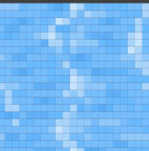
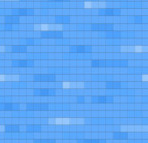
feat: Add and finish map

diff --git a/src/main/java/fr/ab3d0/tile/TileManager.java b/src/main/java/fr/ab3d0/tile/TileManager.java
@@ -4,19 +4,26 @@ import fr.ab3d0.Jeu2D.GamePanel;
 
 import javax.imageio.ImageIO;
 import java.awt.*;
+import java.awt.image.BufferedImage;
+import java.io.BufferedReader;
 import java.io.IOException;
+import java.io.InputStream;
+import java.io.InputStreamReader;
 
 public class TileManager {
     GamePanel gp;
     Tile[] tile;
+    int mapTileNum[][];
 
 
     public TileManager(GamePanel gp){
         this.gp = gp;
         tile = new Tile[10];
-        getTileImage();
-    }
+        mapTileNum = new int[gp.maxScreenCol][gp.maxScreenRow];
 
+        getTileImage();
+        loadMap();
+    }
     public void getTileImage(){
         try{
             tile[0] = new Tile();
@@ -38,13 +45,61 @@ public class TileManager {
             e.printStackTrace();
         }
     }
+    public void loadMap(){
+        try{
+            InputStream in = getClass().getResourceAsStream("/maps/map.txt");
+            System.out.println(in);
+            BufferedReader br = new BufferedReader(new InputStreamReader(in));
+
+            int col = 0;
+            int row = 0;
+
+            while(col < gp.maxScreenCol && row < gp.maxScreenRow){
+                String line = br.readLine();
+
+                while(col < gp.maxScreenCol){
+                    String numbers[] = line.split(" ");
+                    int num = Integer.parseInt(numbers[col]);
+
+                    mapTileNum[col][row] = num;
+                    col++;
+
+                }
+                if(col == gp.maxScreenCol){
+                    col = 0;
+                    row++;
+                }
+
+            }
+            br.close();
+
+        }catch (Exception e){
+
+        }
+
+    }
 
     public void draw(Graphics2D g2){
-        g2.drawImage(tile[0].image, 0, 0, gp.tileSize, gp.tileSize, null);
-        g2.drawImage(tile[1].image, 48, 0, gp.tileSize, gp.tileSize, null);
-        g2.drawImage(tile[2].image, 96, 0, gp.tileSize, gp.tileSize, null);
-        g2.drawImage(tile[3].image, 144, 0, gp.tileSize, gp.tileSize, null);
-        g2.drawImage(tile[4].image, 192, 0, gp.tileSize, gp.tileSize, null);
+        int col = 0;
+        int row = 0;
+        int x = 0;
+        int y = 0;
+
+        while(col < gp.maxScreenCol && row < gp.maxScreenRow ){
+
+            int tileNum = mapTileNum[col][row];
+
+            g2.drawImage(tile[tileNum].image, x,y, gp.tileSize, gp.tileSize, null);
+            col++;
+            x += gp.tileSize;
+
+            if(col == gp.maxScreenCol){
+                col = 0;
+                x= 0;
+                row++;
+                y += gp.tileSize;
+            }
+        }
 
     }
 }

diff --git a/src/main/java/fr/ab3d0/Jeu2D/GamePanel.java b/src/main/java/fr/ab3d0/Jeu2D/GamePanel.java
@@ -12,11 +12,11 @@ public class GamePanel extends JPanel implements Runnable{
     final int originalTileSize = 16;
     final int scale = 3;
 
-    final public int tileSize = originalTileSize * scale;
-    final int maxScreenCol = 16;
-    final int maxScreenRow = 12;
-    final int screenWidth = tileSize * maxScreenCol; /* ça fait 760 pixels */
-    final int screenHeight = tileSize * maxScreenRow; /* ça fait 576 pixels */
+    public final int tileSize = originalTileSize * scale;
+    public final int maxScreenCol = 16;
+    public final int maxScreenRow = 12;
+    public final int screenWidth = tileSize * maxScreenCol; /* ça fait 760 pixels */
+    public final int screenHeight = tileSize * maxScreenRow; /* ça fait 576 pixels */
 
     int FPS = 60;
 
